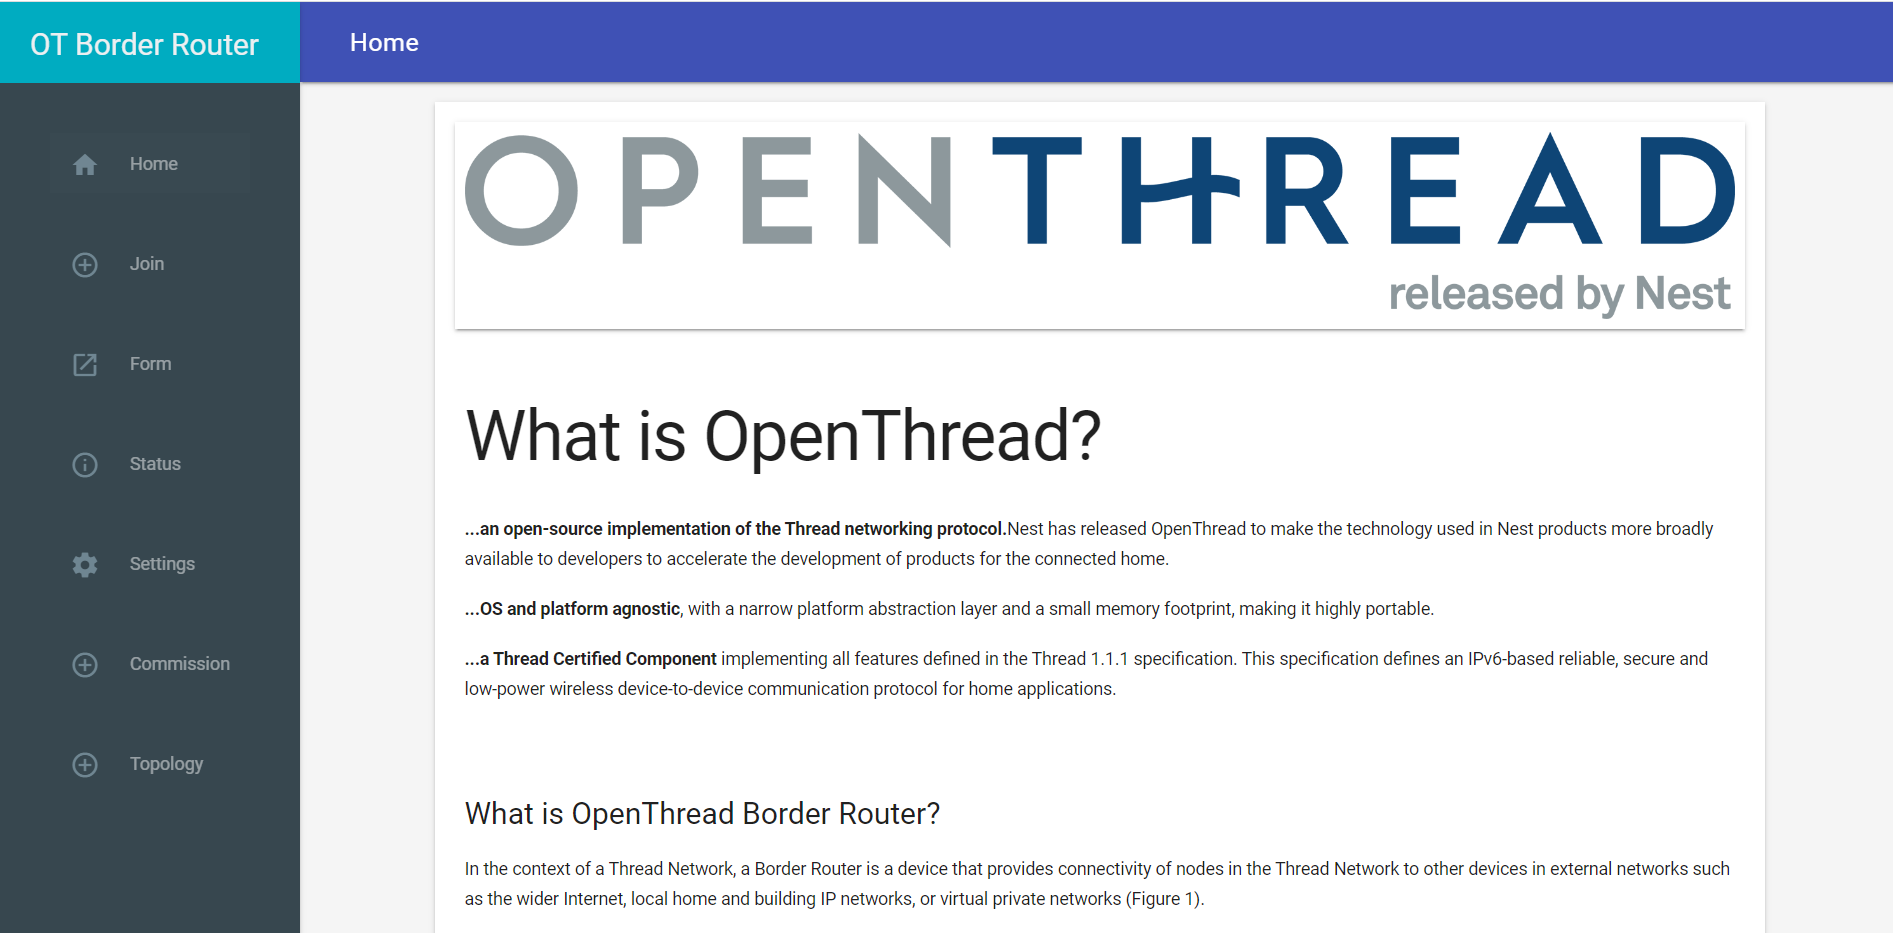
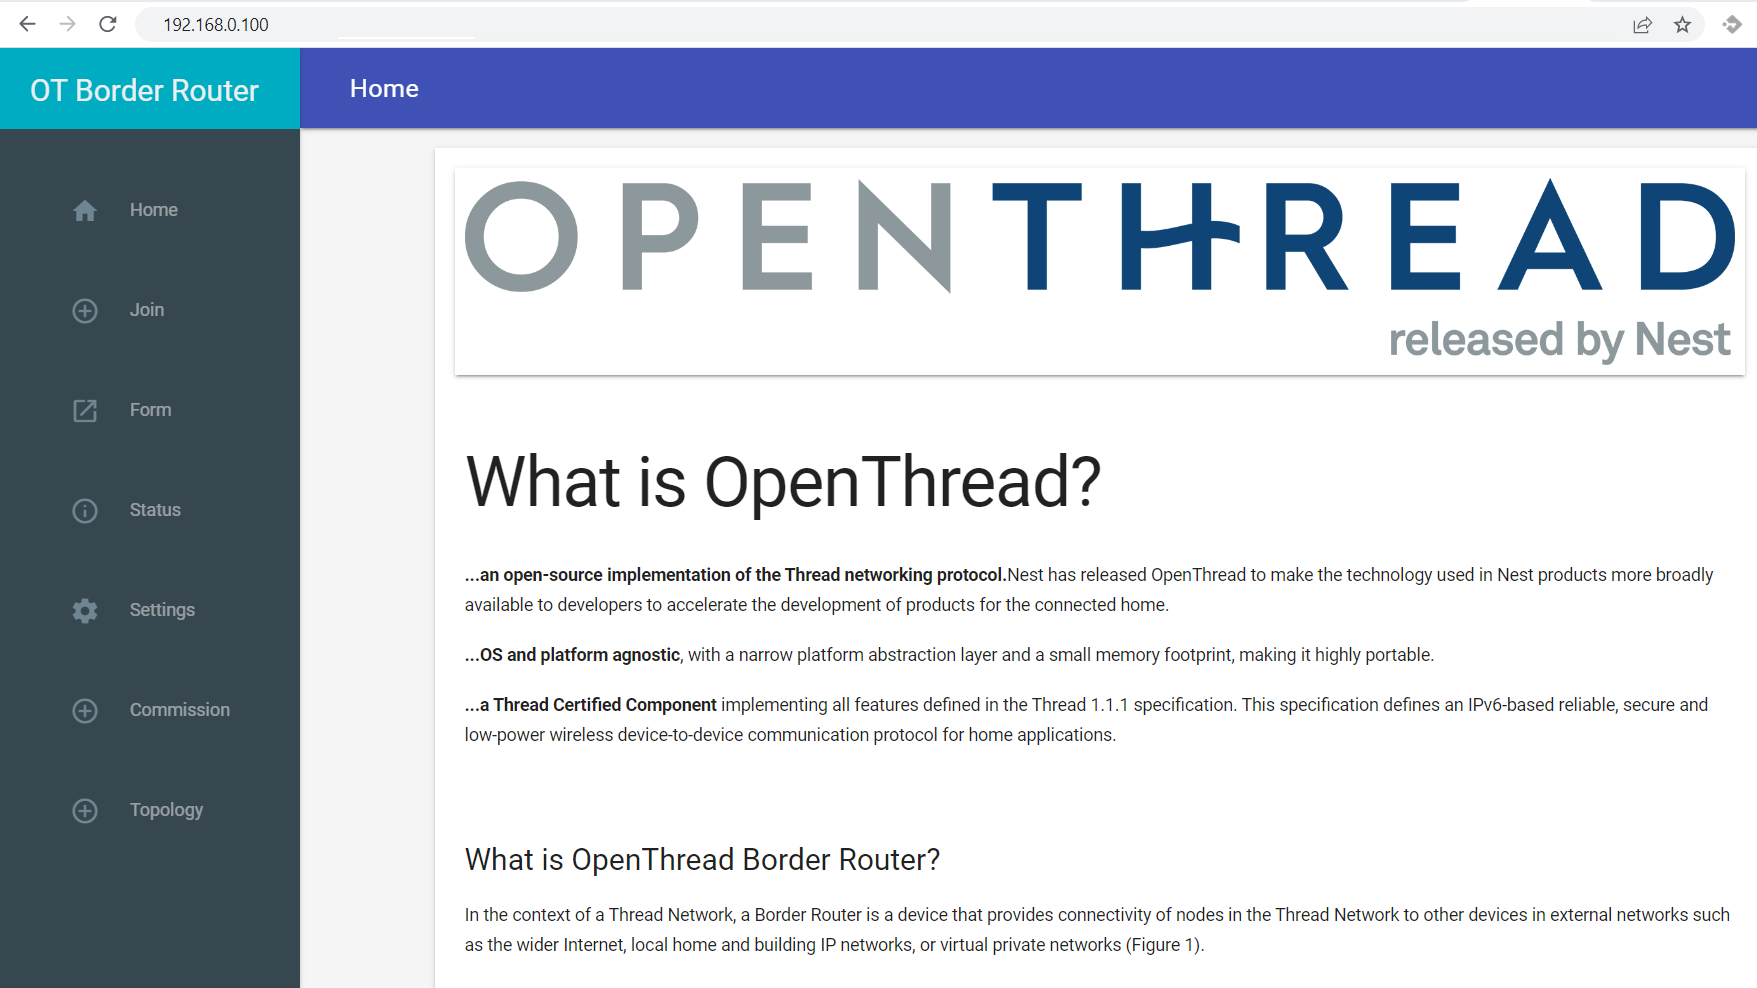
added web page connection version

diff --git a/docs/LwM2M_Client/OpenThread/Adding_device.md b/docs/LwM2M_Client/OpenThread/Adding_device.md
@@ -1,49 +1,78 @@
-# Adding nRF dongle to OpenThread
+# Adding nRF board to OpenThread
 
 Integrate your Nordic nRF52840-DK board to an active OpenThread Border Router.
 
 ## Prerequisites
 
-- An active OpenThread Border Router
+- An active **OpenThread Border Router**.
 - The **nRF52840-DK** board with a USB cable.
-- Installed **minicom** (for Linux) or RealTerm or PuTTy (for Windows) or other serial communication program.
+- Installed **minicom** or **RealTerm** (for Linux or Mac) or **PuTTy** (for Windows) or other serial communication program.
 - Installed **nrfjprog** from [Nordic Semiconductor page](https://www.nordicsemi.com/Products/Development-tools/nrf-command-line-tools/download)
-- A user with access to the Coiote IoT Device Management platform and appropriate permissions.
+- A user with access to the [**Coiote IoT Device Management**](https://eu.iot.avsystem.cloud/ui/device/inventory) platform and appropriate permissions.
 
 ## Connecting to the OpenThread
 
-When you have an active Border Router you should have a posibility to check its hostname, domain, IP address and port on which your Border Router works.
-
-!!! Note
-    In commands **OTBR_hostname.OTBR_domain** can be replaced with **OTBR_IP_address**.
+Check your active Border Router **OTBR_IP_address** and **OTBR_port** on which your Border Router works. This will be necessary for further steps.
 
 ### Connection through Wi-Fi
 
-In this method you have to be connected to the same Wifi network as is your OpenThread Border Router. To connect your device to Border Router through Wifi you should go to ` http://localhost:OTBR_port/ `.
+You have to be connected to the same Wifi network as your OpenThread Border Router. To connect your device to Border Router through Wifi, you should go to `OTBR_IP_address`.
 
-### Connection through SSH
-
-In this method you will need hostname and domain for your OTBR
-`ssh -L OTBR_port:OTBR_hostname.OTBR_domain:80 -L 8081:OTBR_hostname.OTBR_domain:8081`
-Then go to: `http://localhost:OTBR_port/`. The additional forwarding for port 8081 is necessary for the Topology view to work.
-
-
-
+!!! Note
+    There is an option to connect to your Border Router through ssh by `ssh -L OTBR_port:OTBR_IP_addres:80 -L 8081:OTBR_hostname` command, then go to: `http://OTBR_IP_address:80`. The additional forwarding for port 8081 is necessary for the ***Topology*** view to work. Also, port 80 is necessary due to the HTTP protocol.
 
 When you are connected you should see the OpenThread main page:
 
 ![OT Main Page](images/ot_main_page.PNG "OT Main Page")
 
+### Creating an OpenThread network
 
+On the left side, select the option ***Form***, and a new page will be displayed for the network creation. Click the form and a message should pop up to let you know about the operation's success. ![Form Network](images/form_network.png "Form Network"){:style="float: left;margin-right: 1177px;margin-top: 17px; margin-bottom: 17px;"}
 
+On the left-side menu, click ***Topology*** to see the role of Border Router ![Border Router topology](images/border1.png "Border Router topology"){:style="float: left;margin-right: 1177px;margin-top: 17px; margin-bottom: 17px;"}
 
-## Creating an OpenThread network
+### Starting Commission
 
-On the left side, select the option Form, and a new page will be displayed for the network creation. Click form and a message should pop up to let you know about the operation success. ![Form Network](images/form_network.png "Form Network"){:style="float: left;margin-right: 1177px;margin-top: 17px; margin-bottom: 17px;"}
+To start the commissioning process click ***Commission*** on the left-side menu and write down Joiner PSKd password.
 
+!!! Important
+    The PSKd needs to conform to the following: Length: 6-32 characters, encoding: base32-thread (0-9, A-Y excluding I, O, Q, and Z for readability).
+    <br />
+    Remember the joiner PSKd password, you will use it in the next step to configure your device.
+    <br />
+    For more information check [here](https://community.silabs.com/s/article/openthread-faq?language=en_US).
 
+Click start commission, and a message should pop up to inform you about the operation's success. ![Start commission](images/commision.png "Start commission"){:style="float: left;margin-right: 1177px;margin-top: 17px; margin-bottom: 17px;"}
 
-On the left-side menu, click Topology to see the role of Border Router ![Border Router topology](images/border1.png "Border Router topology"){:style="float: left;margin-right: 1177px;margin-top: 17px; margin-bottom: 17px;"}
+### Device configuration
+
+0. Connect the nRF52840 board to the USB port of your machine.
+
+0. Because NCS uses a different Zephyr version, it is necessary to change our Zephyr workspace, it is handled by using a different manifest file.
+Set West manifest path to *Anjay-zephyr-client/demo*, and manifest file to *west-nrf.yml* and do *west update*.
+
+    ```
+        west config manifest.path Anjay-zephyr-client/demo
+        west config manifest.file west-nrf.yml
+        west update
+    ```
+
+0. Go to *Anjay-zephyr-client/demo/boards* folder and find `nrf52840dk_nrf52840.conf` file. In this file, you will need to change the joiner PSKd password (line 41 in the .conf file). ![Configuration file](images/conf_file.PNG){:style="float: left;margin-right: 1177px;margin-top: 17px; margin-bottom: 17px;"}
+
+    !!! Note
+        The last config option in file `CONFIG_OPENTHREAD_FTD` tells about a Full Thread Device (FTD) which always has its radio on and maintains IPv6 address mappings. This option can be changed to `CONFIG_OPENTHREAD_MTD`, a Minimal Thread Device (MTD) forwards all messages to its Parent.
+
+0. Now in demo directory you can compile the project.
+
+    ```
+        west build -b nrf52840dk_nrf52840
+    ```
+
+0. After successful build you can flash the target.
+
+    ```
+        west flash
+    ```
 
 ## Connecting to the LwM2M Server
 
@@ -93,8 +122,22 @@ To connect the board:
 
 
 0. Use the `anjay start` command to run the Client.
+
+0. In logs, you can read view lines that contain OpenThread informations. There will be information about success or failure in joining the connection and the current role of your device in the OpenThread network.
+
+    ![Connected as a child role](images/connected_child.PNG "Connected as a child role"){:style="float: left;margin-right: 1177px;margin-top: 7px; margin-bottom: 17px;"}
+
+0. Go to OpenThread main web page, on the left-side menu click ***Topology*** to see connected device.
+
+    ![Connected device as a child](images/border2.png "Connected device as a child"){:style="float: left;margin-right: 1177px;margin-top: 7px; margin-bottom: 17px;"}
+
+    !!! Note
+        The node should join the OTBR Thread network automatically. Within two minutes its state should be `router`
+
+        ![Connected device as a router](images/border3.png "Connected device as a router"){:style="float: left;margin-right: 1177px;margin-top: 7px; margin-bottom: 17px;"}
+
 0. Go to Coiote DM to check if your device connected. Click **Next**, then **Go to Summary**, then **Finish**. You will see your Device Center view:
-    ![Registered device](images/registered_device.png "Registered device")
+    ![Registered device](images/registered_device.png "Registered device"){:style="float: left;margin-right: 1177px;margin-top: 7px; margin-bottom: 17px;"}
 
 !!! note
     When Anjay has no connection with the server or network for a long time, warning
